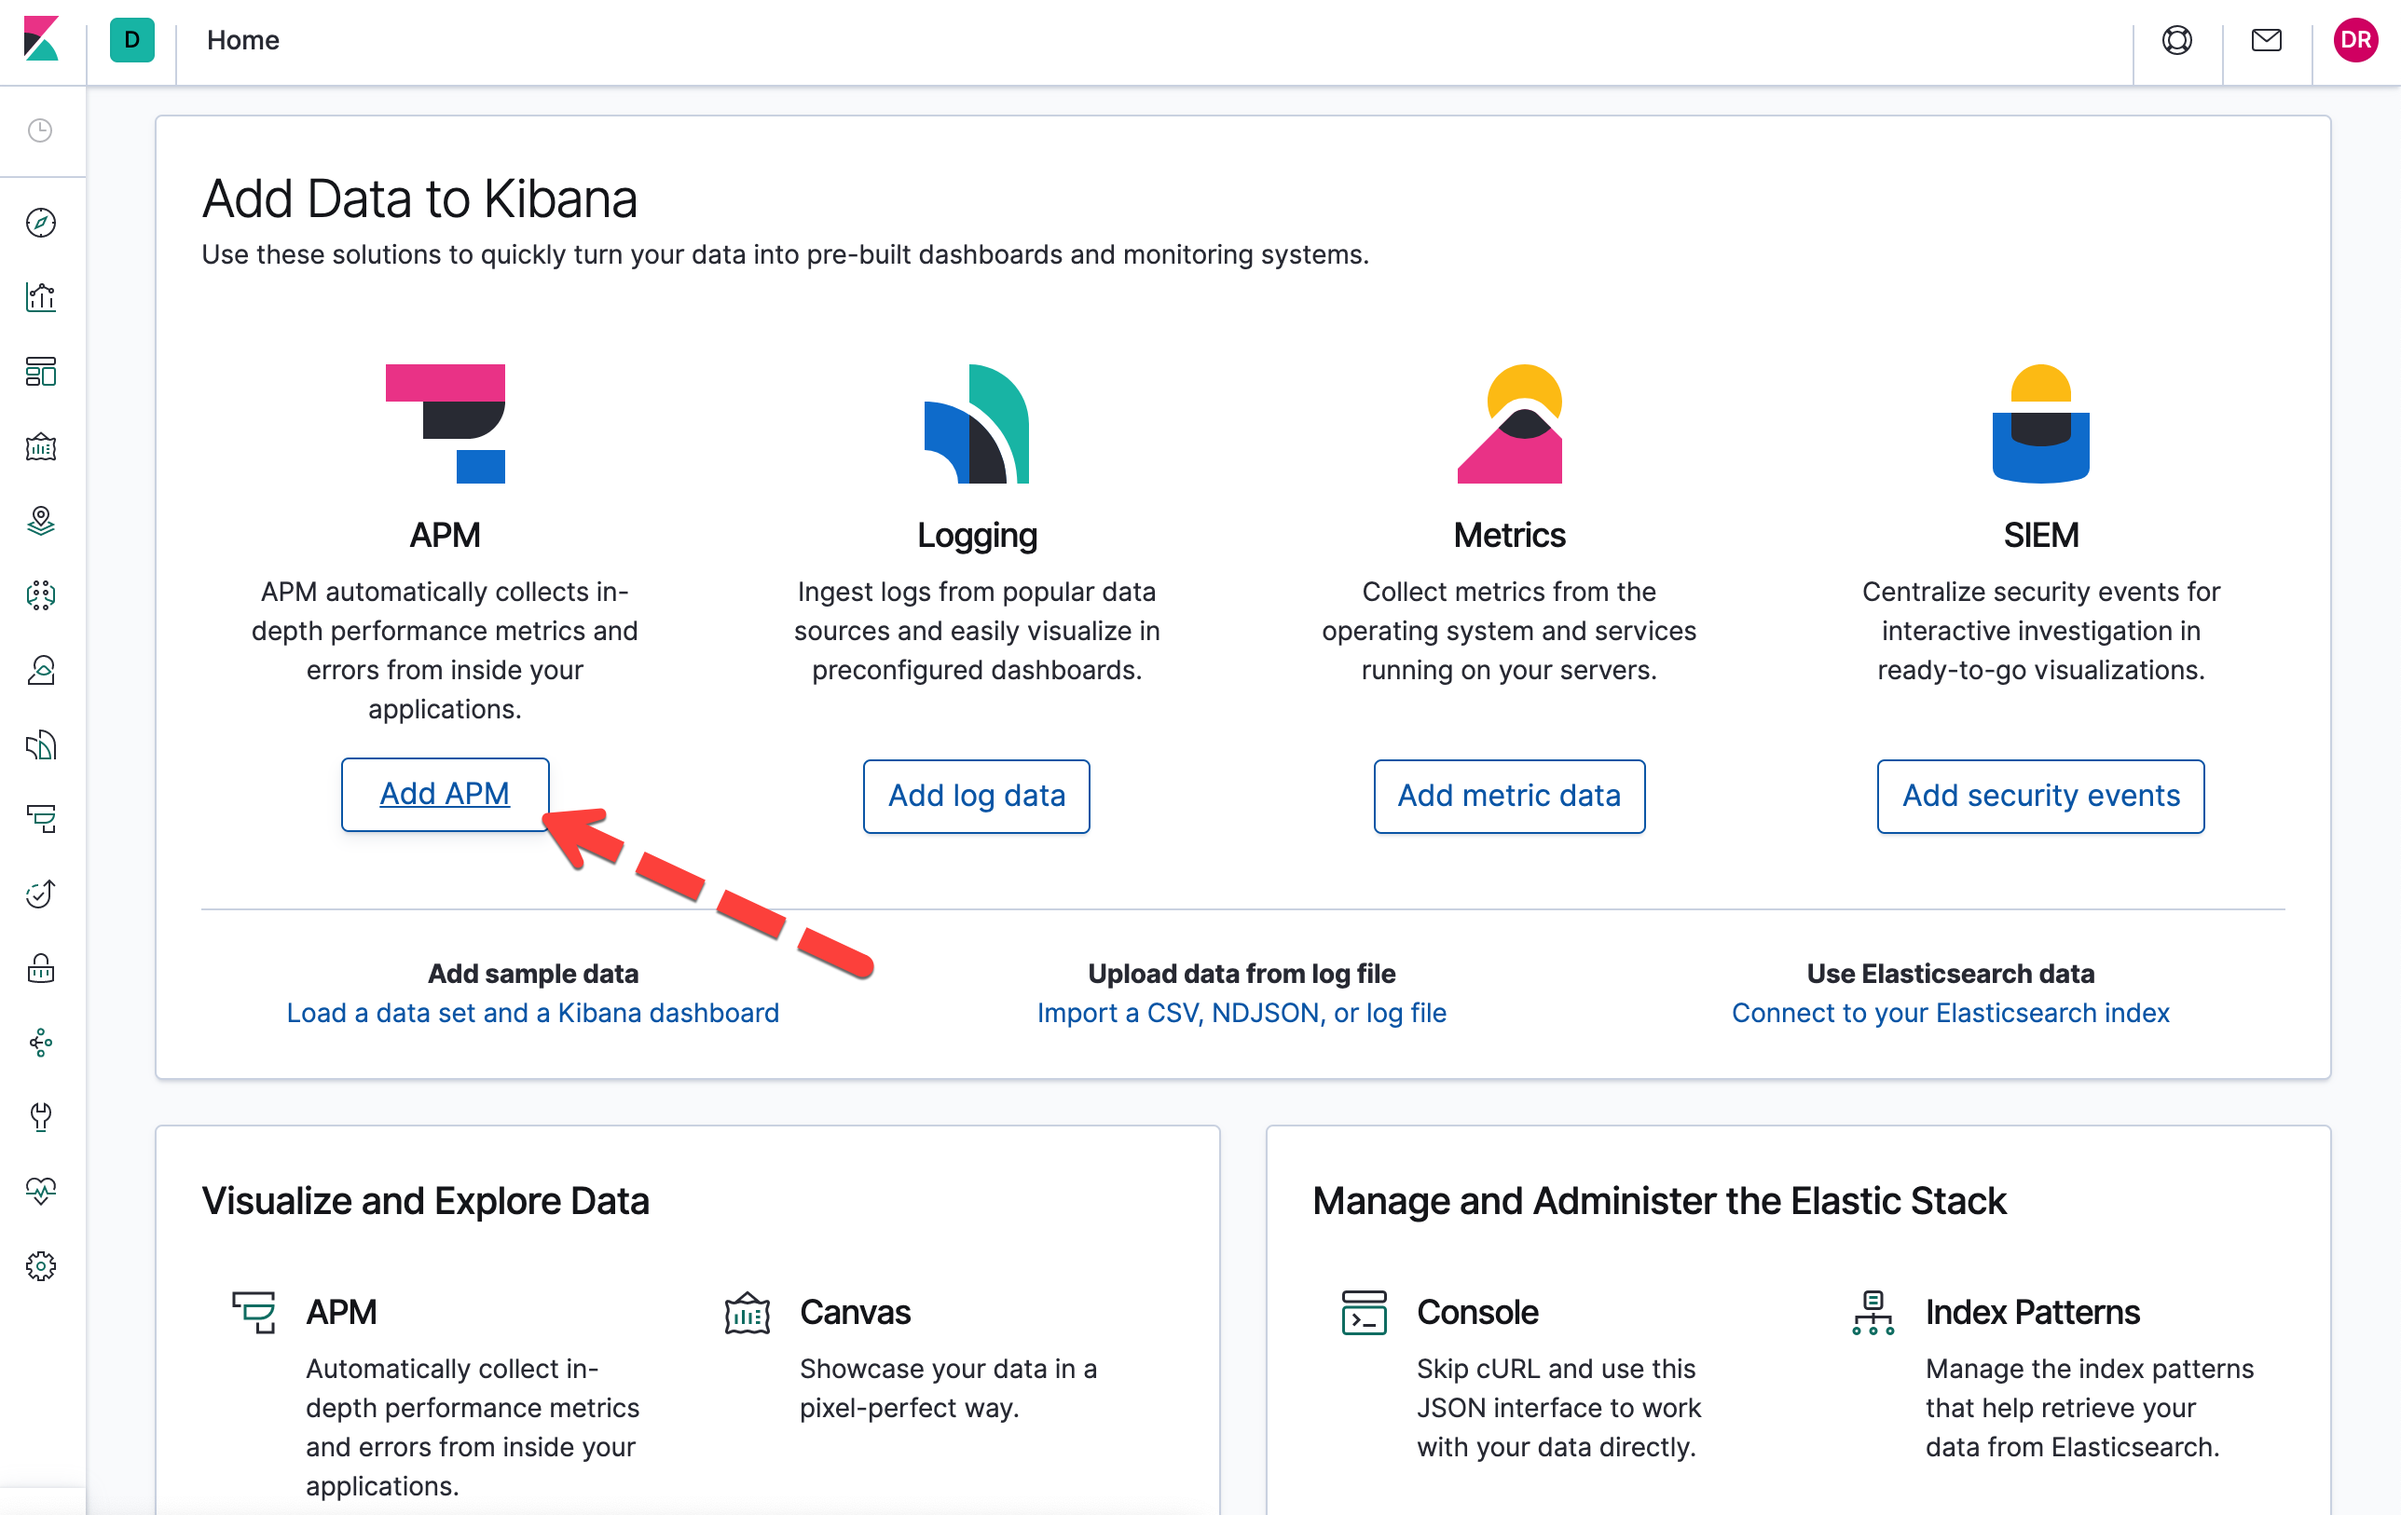
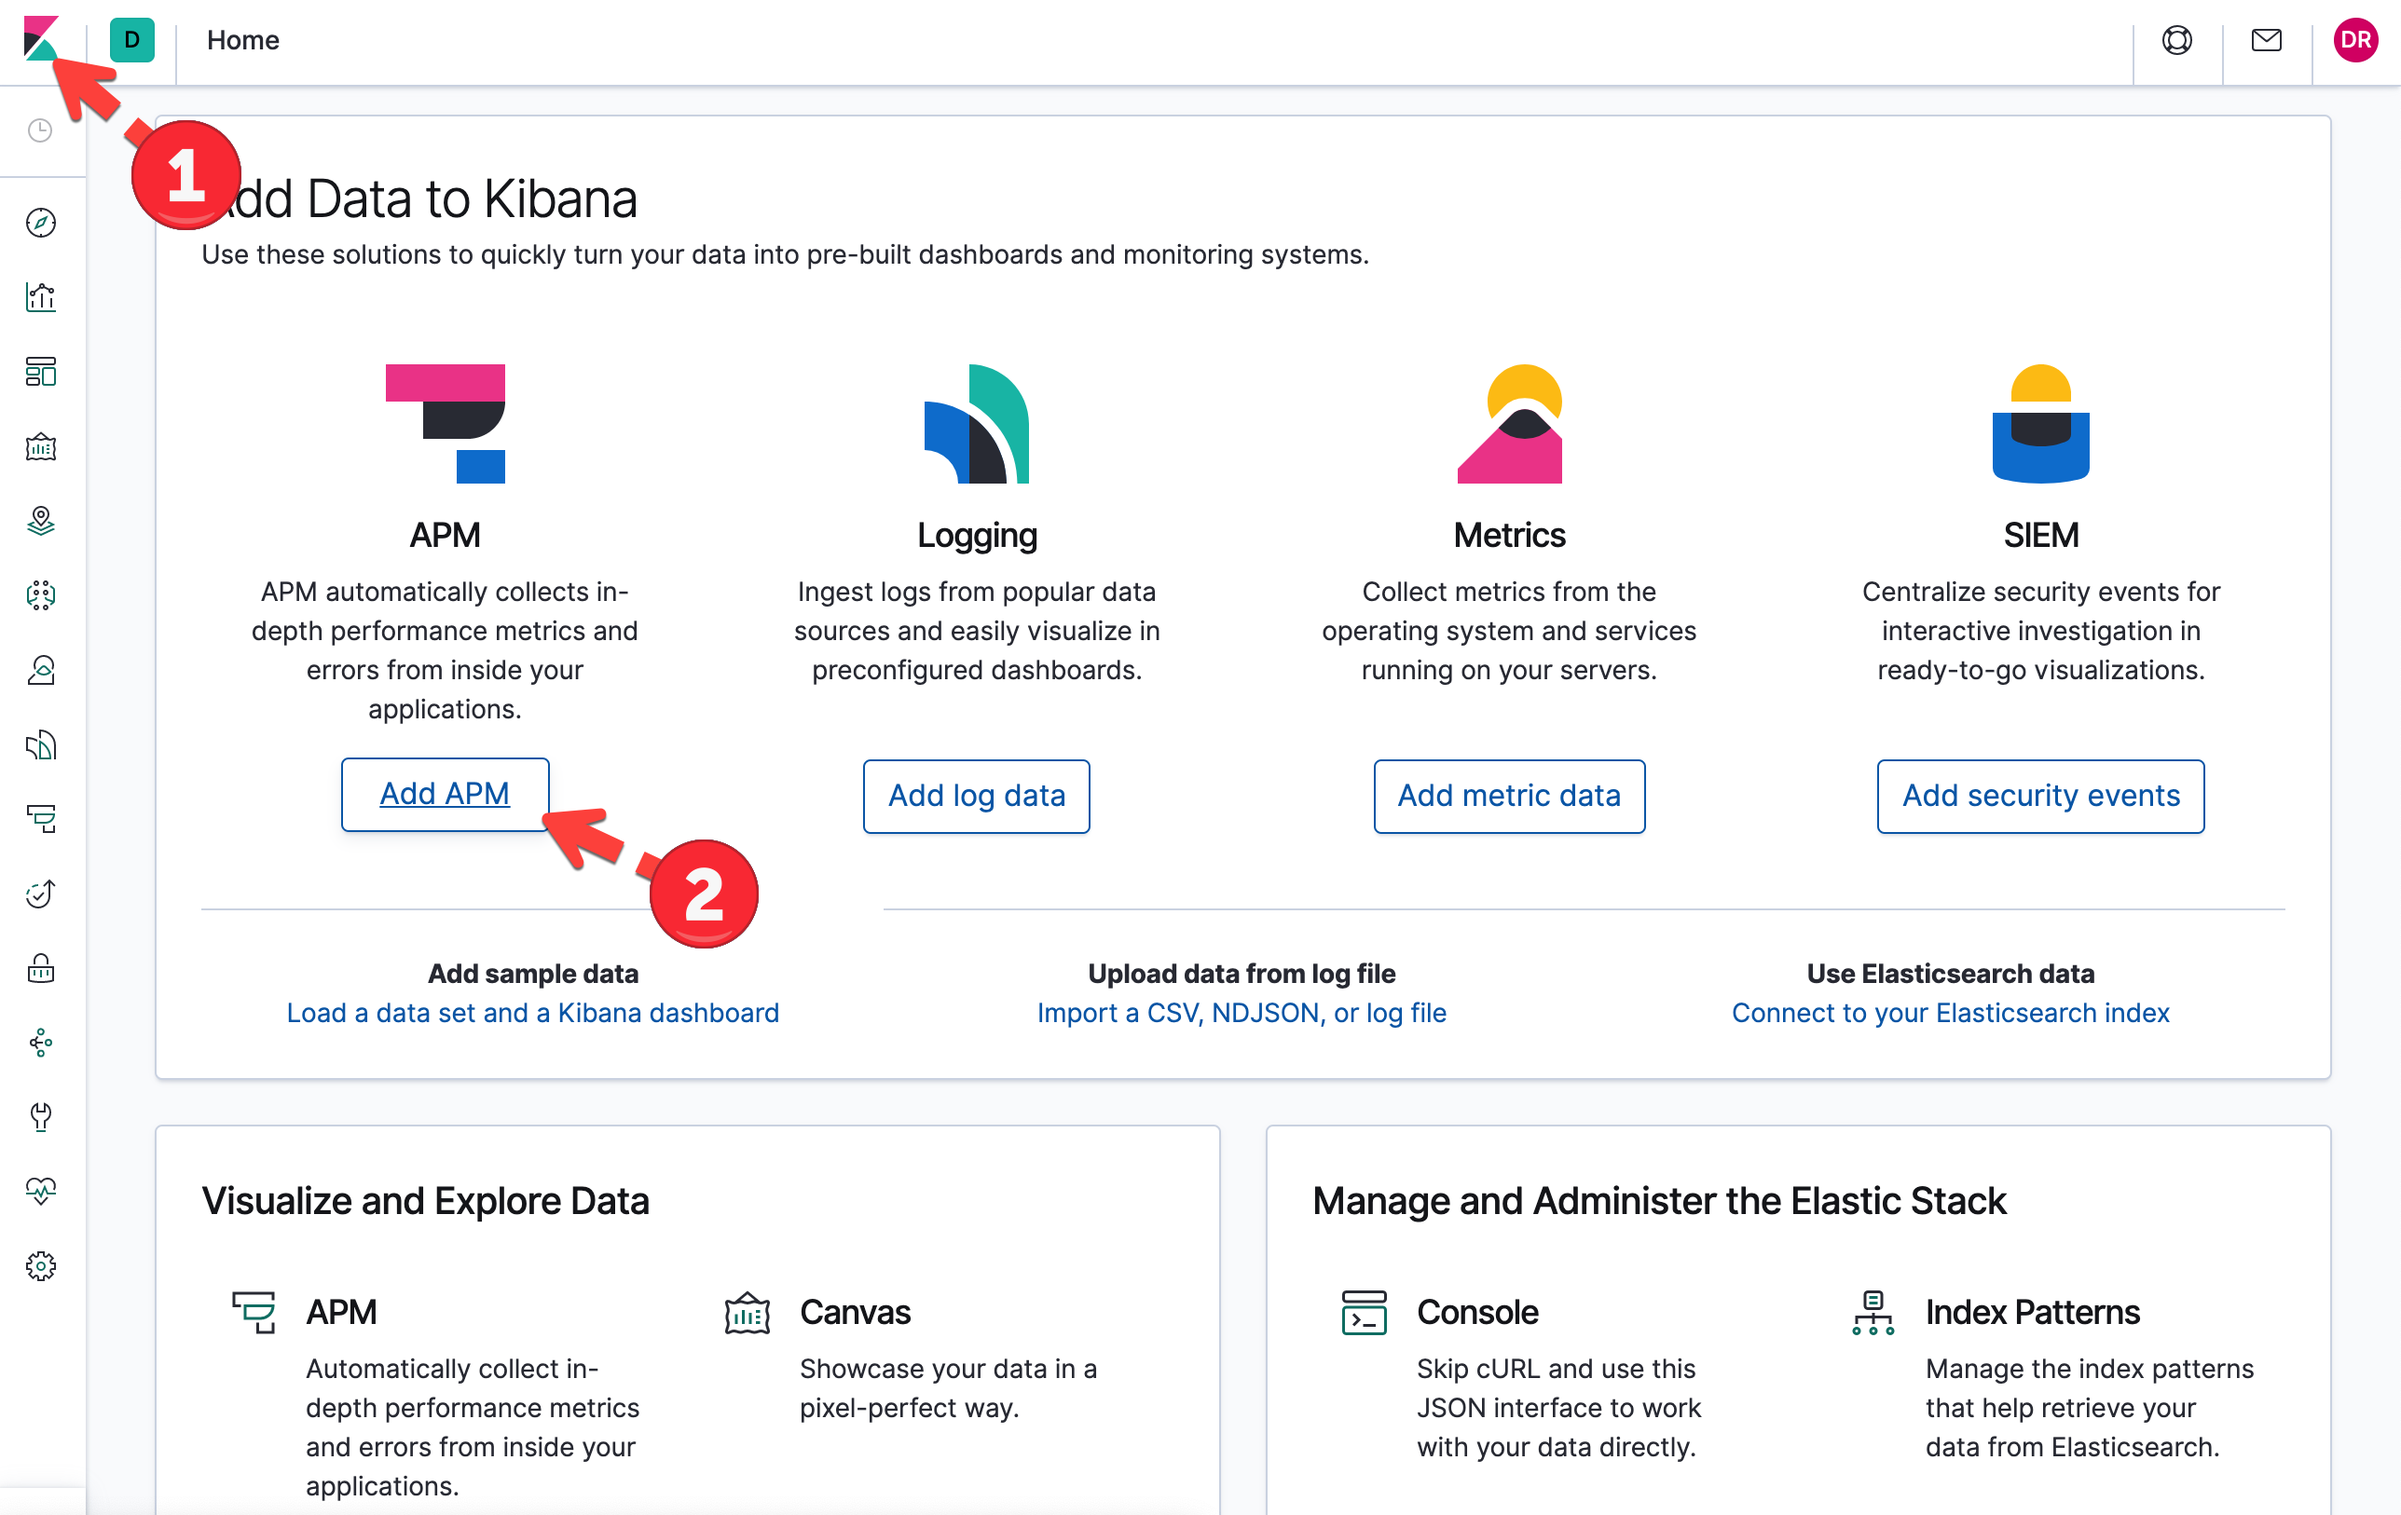
docs

Changed region(s): [[0.0, 0.0308, 0.1242, 0.1538], [0.2484, 0.5535, 0.3727, 0.6458]]

diff --git a/README.md b/README.md
@@ -13,7 +13,7 @@ Here is the original code:
 and here is the modified code:
 ![Original Code](https://github.com/DanRoscigno/node-APM/raw/master/images/Node-2.png)
 
-Follow the instructions in the [Node.js Guide](https://nodejs.org/en/docs/guides/nodejs-docker-webapp/), and once you have the code working in a Docker container add the one line above to include the Elastic APM agent.
+Follow the instructions in the [Node.js Guide](https://nodejs.org/en/docs/guides/nodejs-docker-webapp/), and once you have the code working in a Docker container then open Kibana and follow the instructions to instrument your application with Elastic APM.
 
 ## Get the APM details for your Elastic deployment
 Follow the instructions in Kibana Home -> Add APM, with a Kubernetes twist, as 
